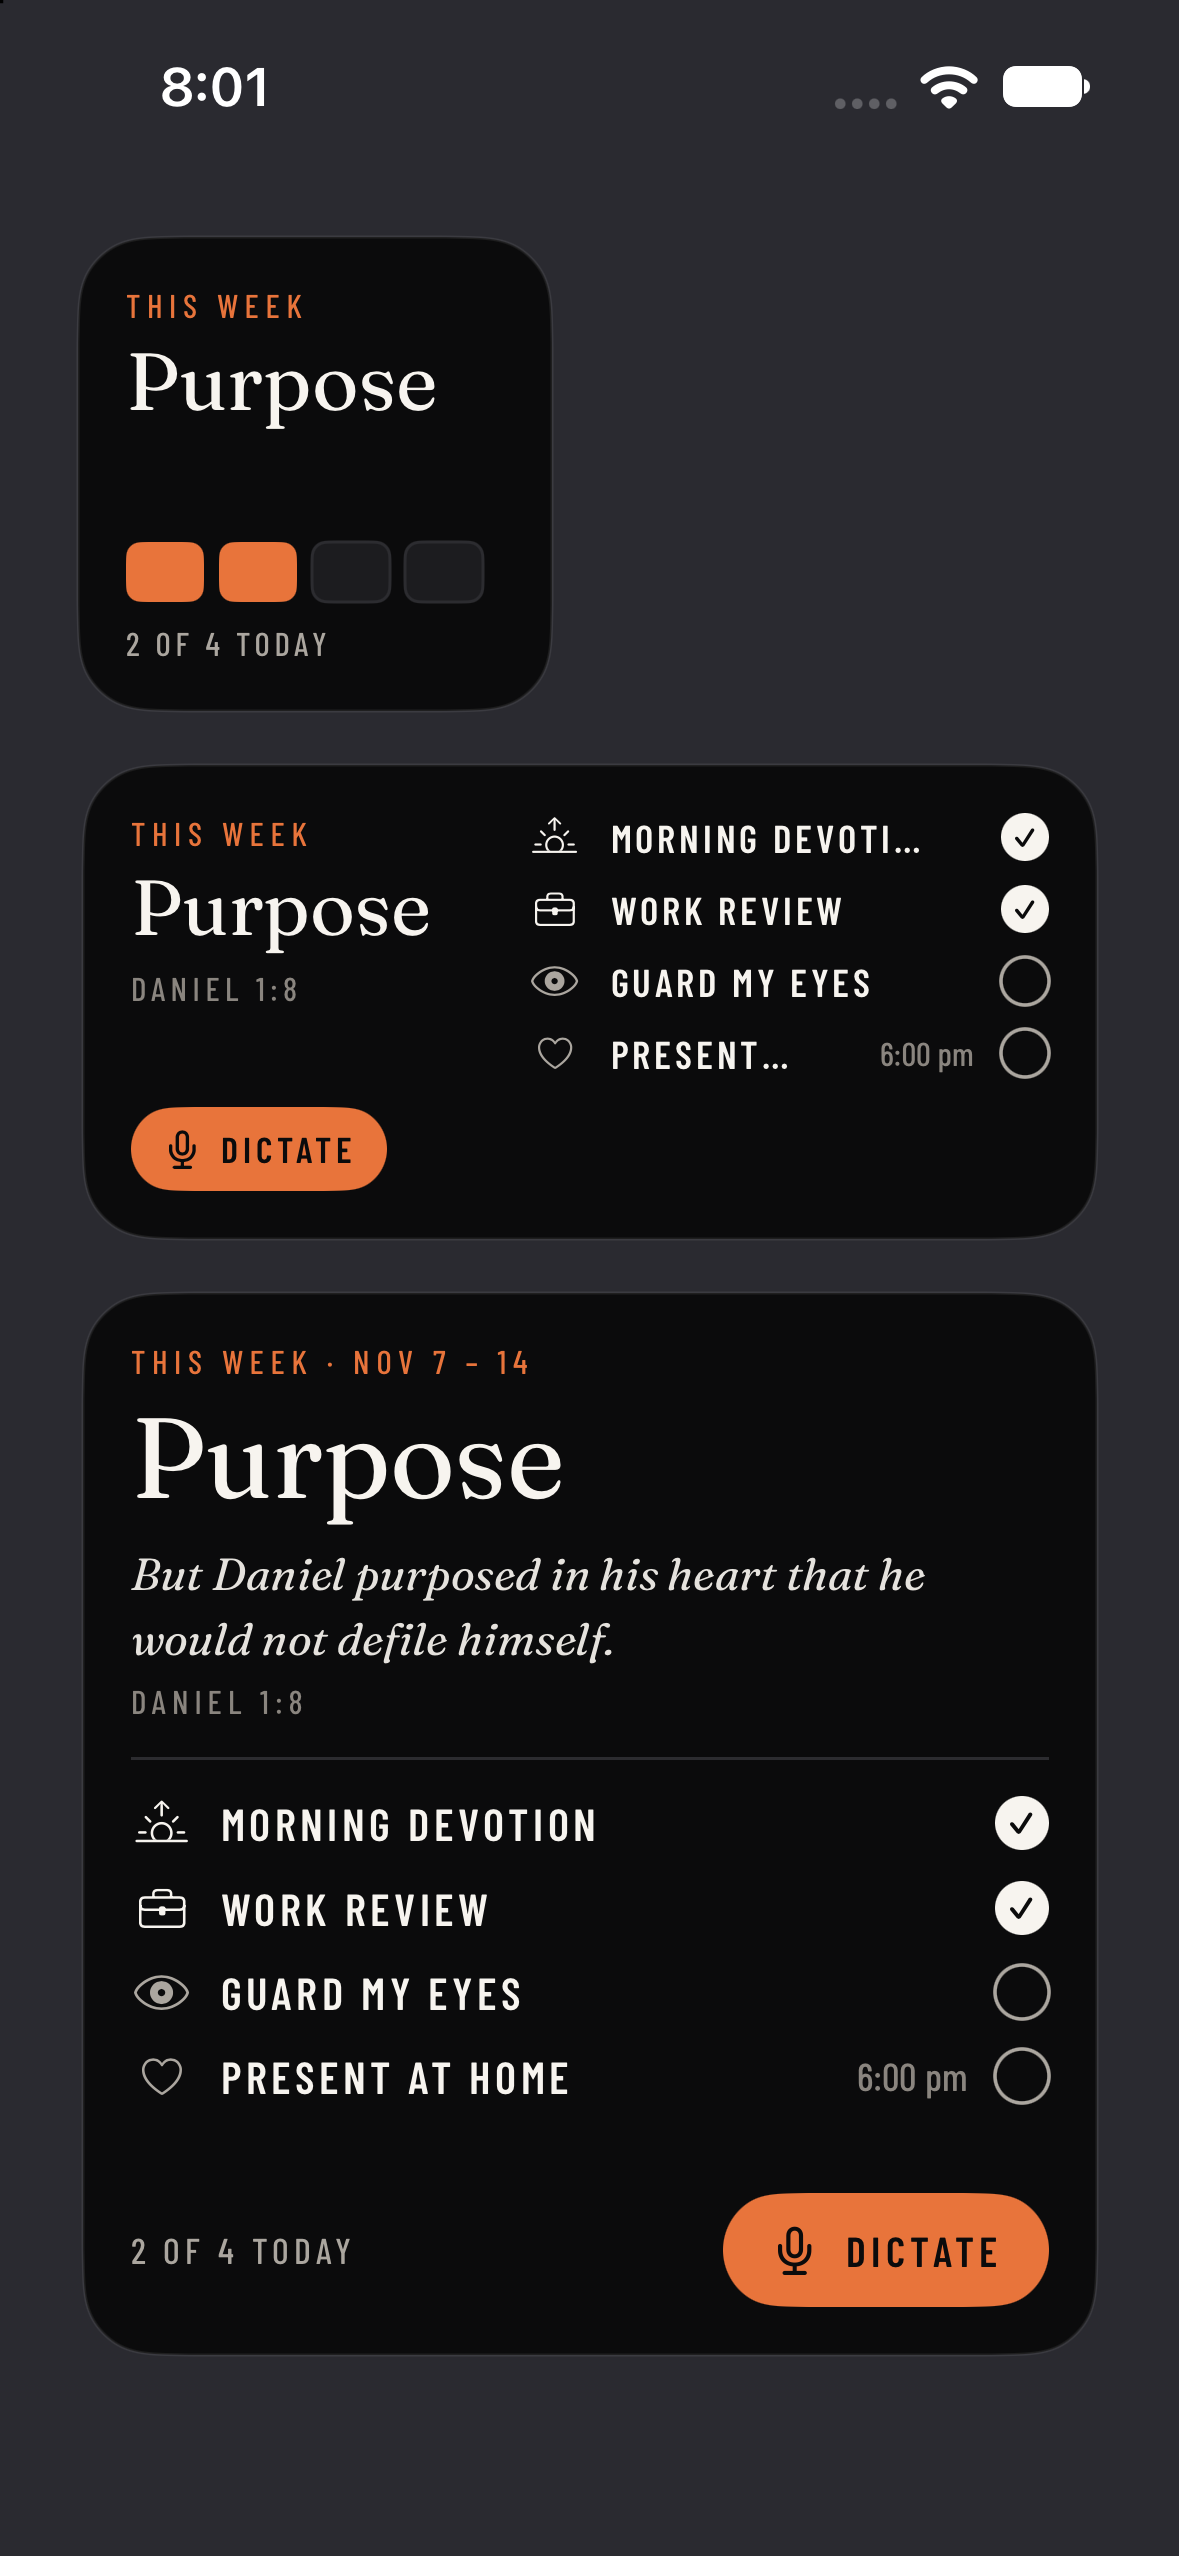
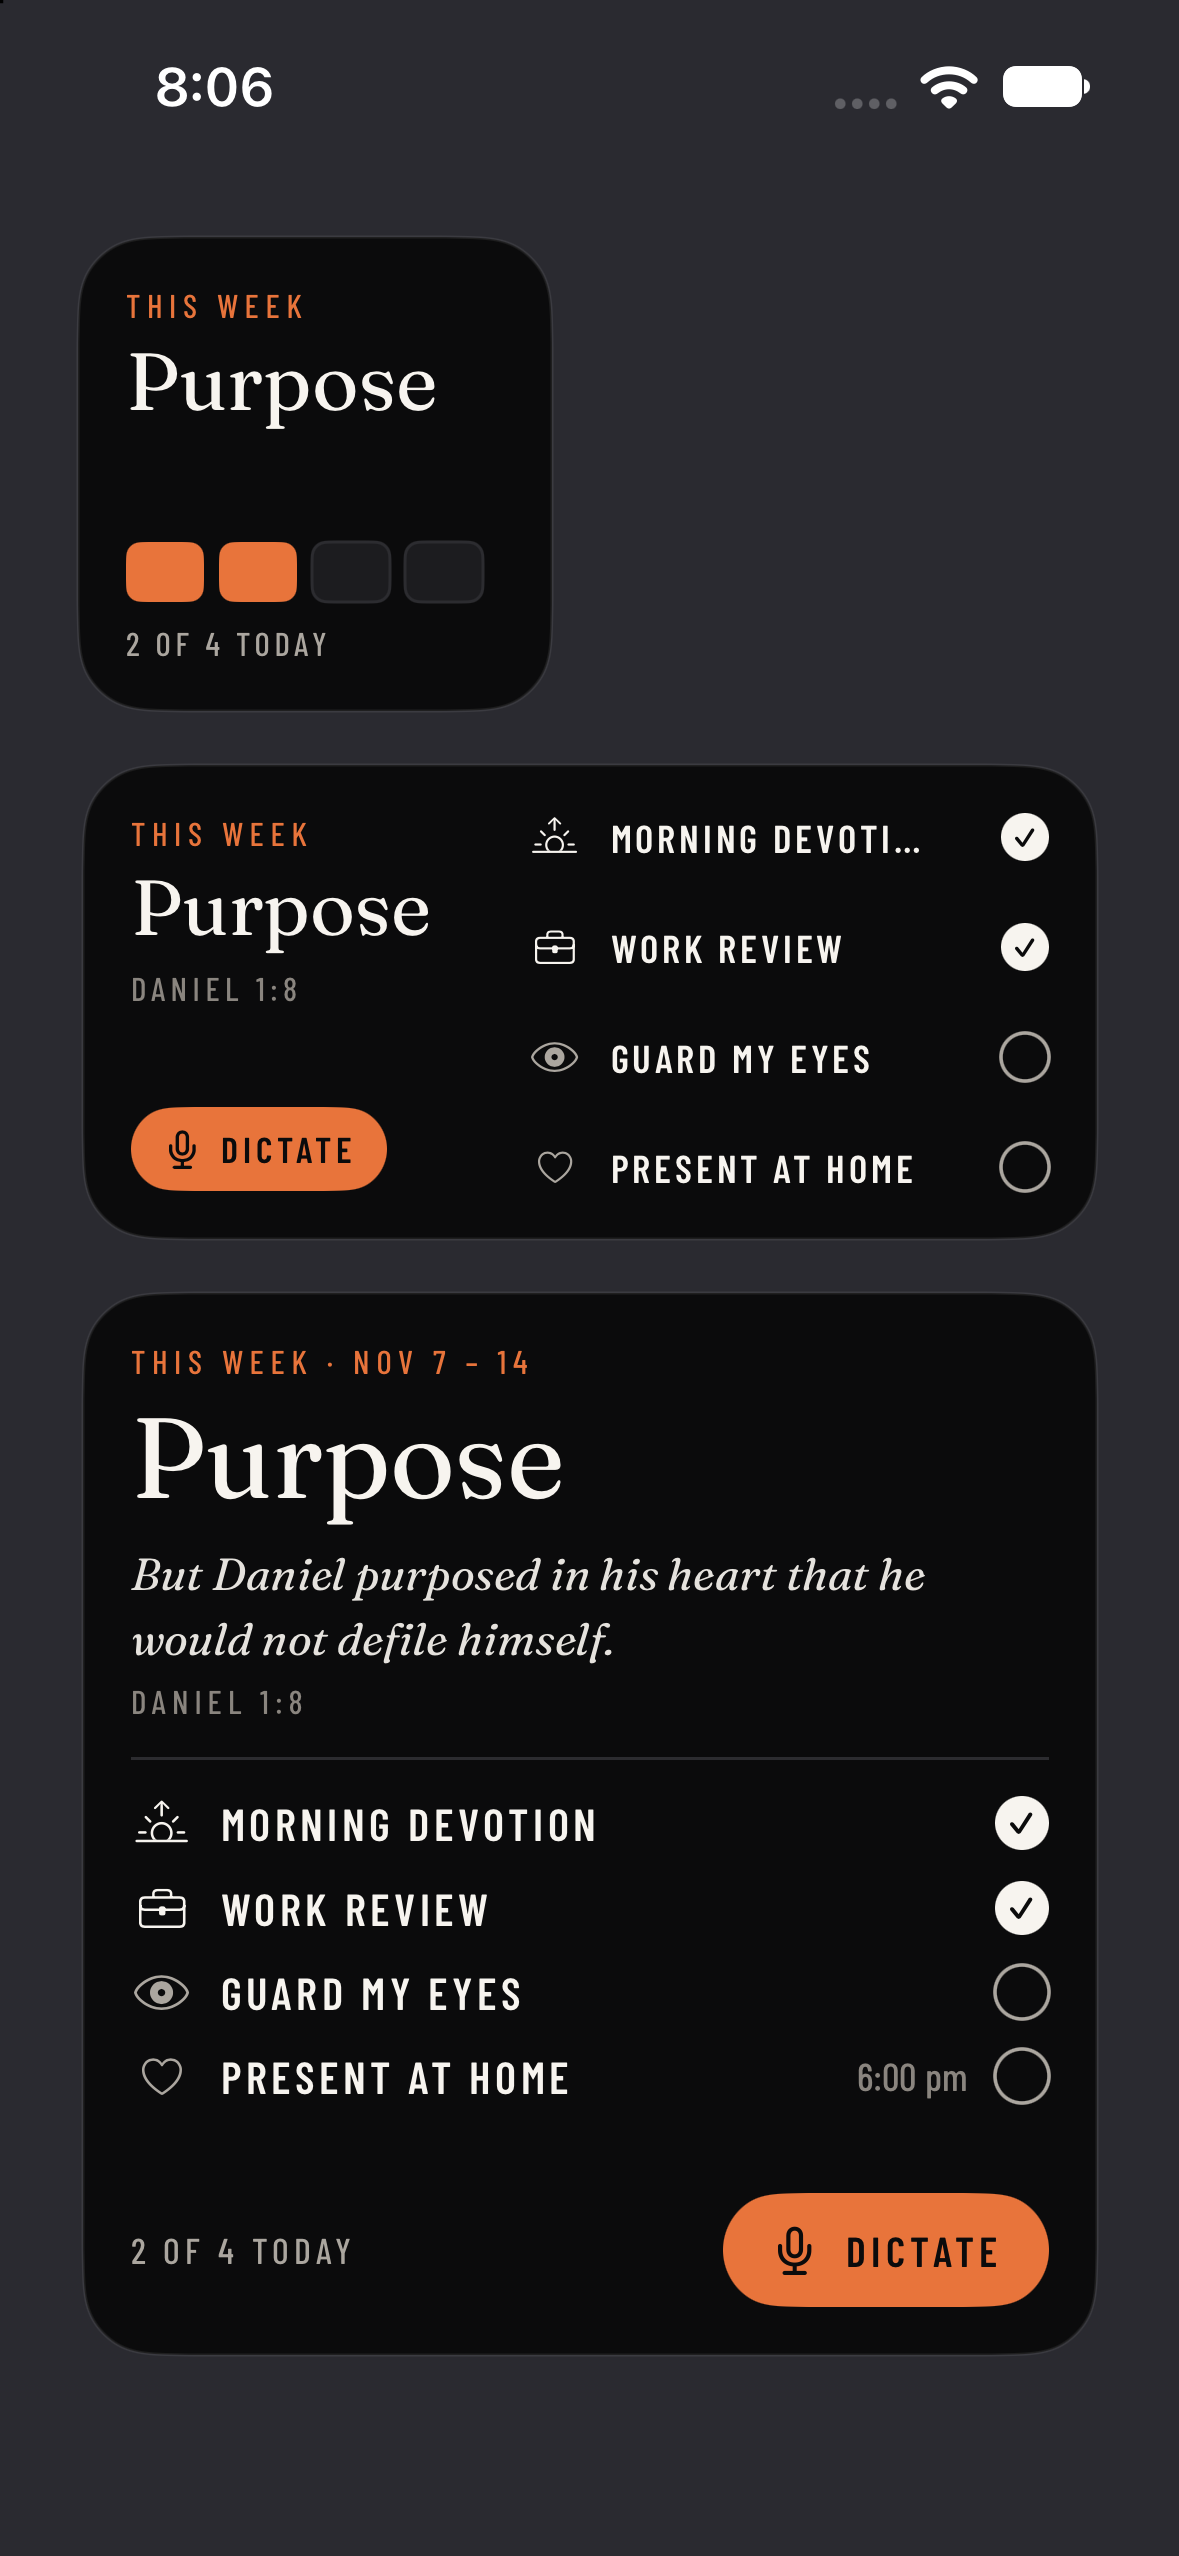
iOS: medium widget spaces its habits evenly from top to bottom

diff --git a/ios/Shared/WidgetViews.swift b/ios/Shared/WidgetViews.swift
@@ -119,8 +119,15 @@ struct WeekWidgetBody: View {
                 }
             }
             .frame(width: 118, alignment: .leading)
-            VStack(alignment: .leading, spacing: 8) { ForEach(Array(hs.prefix(4).enumerated()), id: \.offset) { _, h in row(h, size: 13, time: false) } }
-                .frame(maxWidth: .infinity, alignment: .topLeading)
+            // the habits share the full height evenly, first at the top edge and last at the bottom, however many there are
+            VStack(alignment: .leading, spacing: 0) {
+                let shown = Array(hs.prefix(4))
+                ForEach(Array(shown.enumerated()), id: \.offset) { i, h in
+                    row(h, size: 13, time: false)
+                    if i < shown.count - 1 { Spacer(minLength: 4) }
+                }
+            }
+            .frame(maxWidth: .infinity, maxHeight: .infinity, alignment: .topLeading)
         }
         .frame(maxWidth: .infinity, maxHeight: .infinity, alignment: .topLeading)
     }
